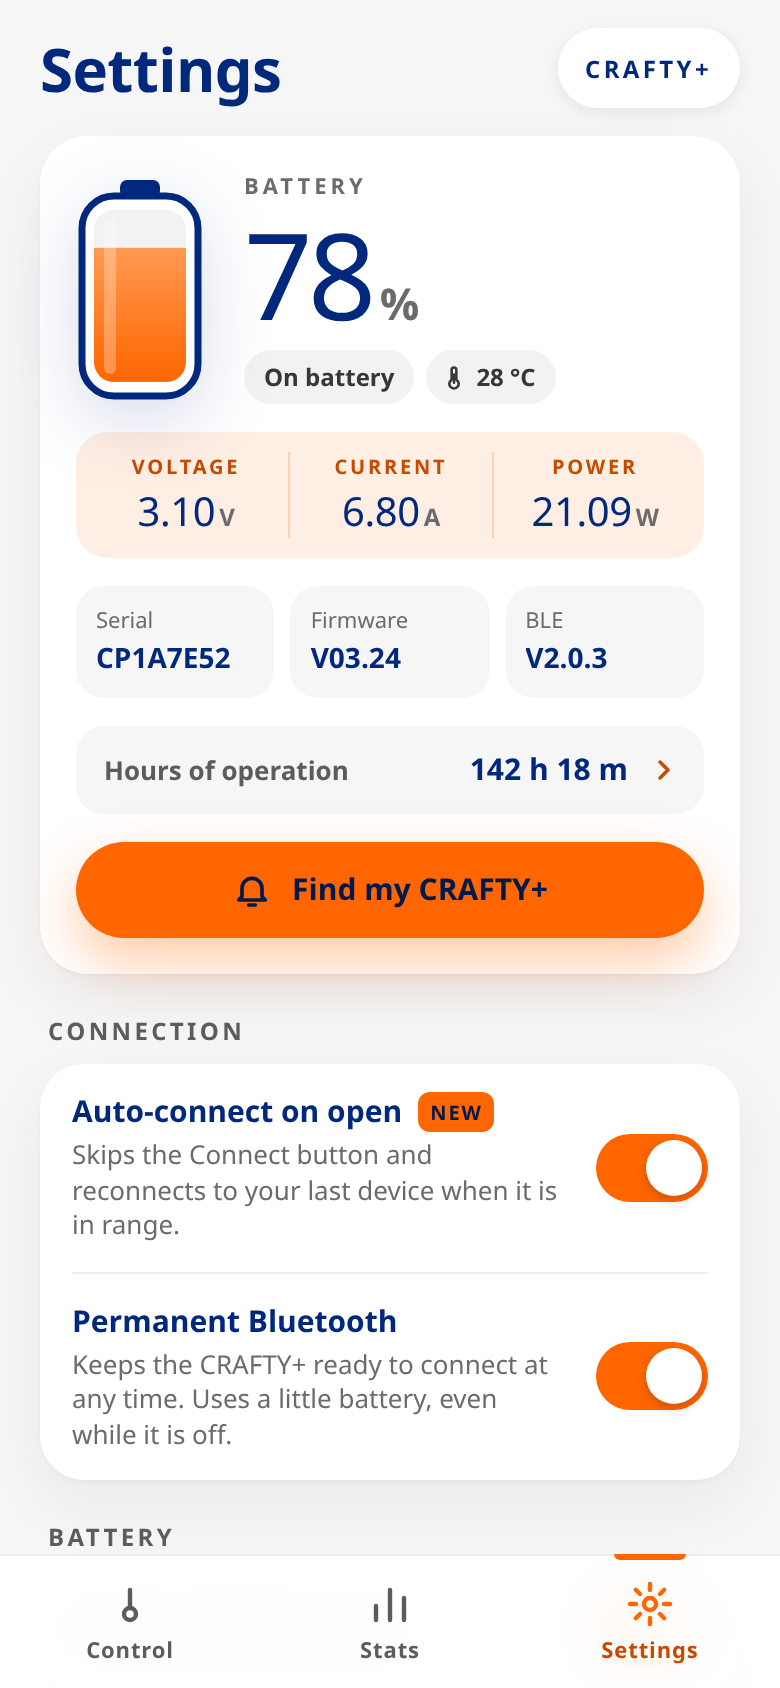
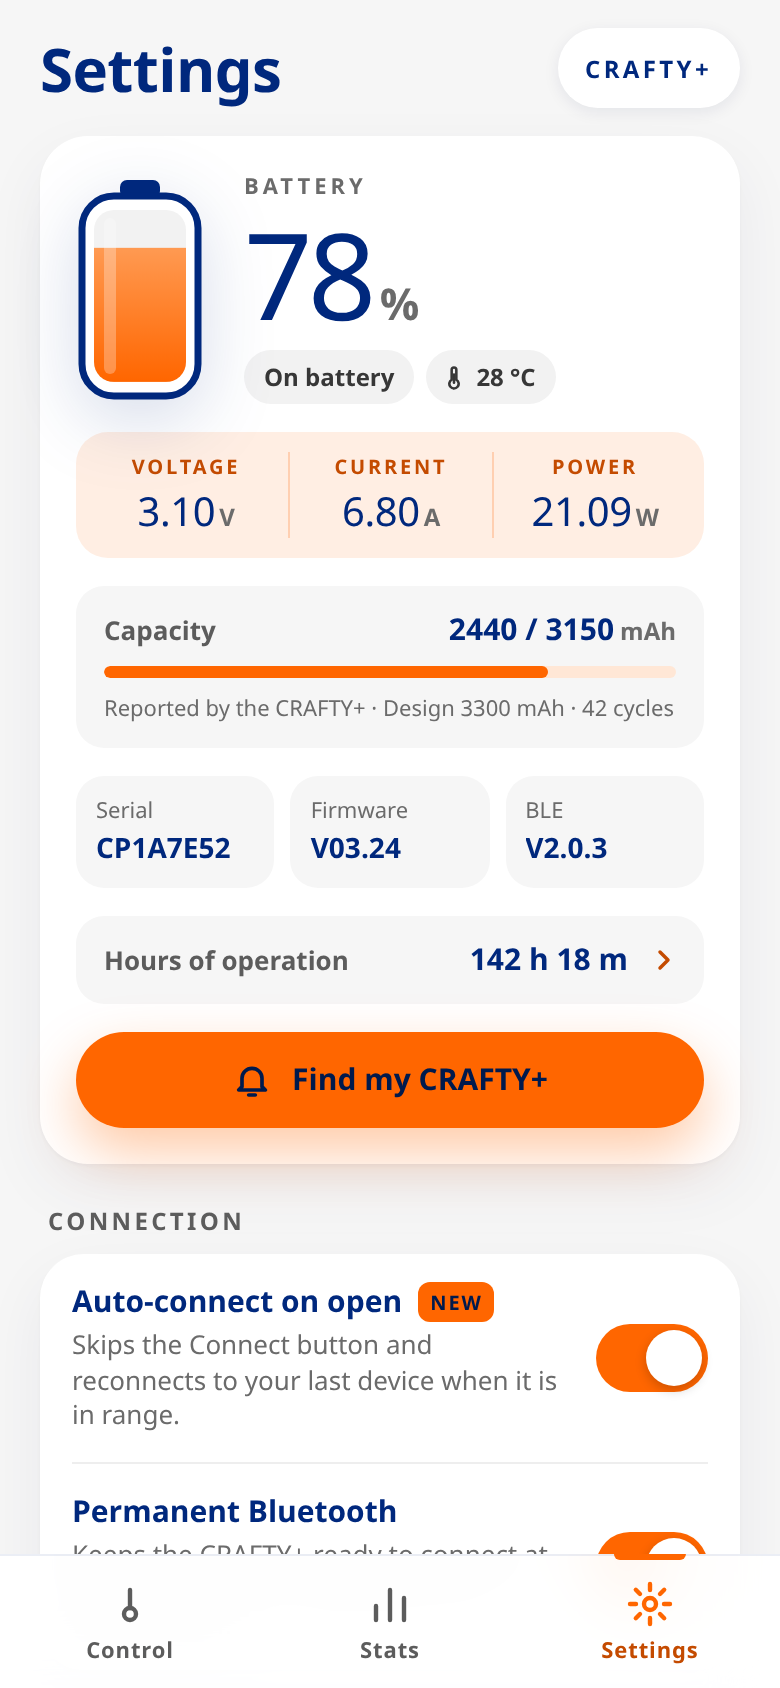
README: Settings screenshot and battery text with the reported capacity

diff --git a/README.md b/README.md
@@ -60,8 +60,9 @@ VENTY · VEAZY · CRAFTY · CRAFTY+ · VOLCANO HYBRID
   so and opens the battery settings.
 - 🔋 **Battery.** Leads Settings: a large percentage, shown while charging too, whether it is on
   battery, charging or charged, with the charge animating up to full. A CRAFTY+ also shows the battery
-  temperature and warns when the battery is too hot to heat; a VENTY or VEAZY shows its lifetime
-  time on the charger.
+  temperature, the capacity it reports (left of full, design capacity, charge cycles: handy to watch
+  the gauge relearn a new cell) and warns when the battery is too hot to heat; a VENTY or VEAZY shows
+  its lifetime time on the charger.
 - 🌋 **VOLCANO workflows.** Flow 1–3 and Balloon run from the phone, step by step, with time
   running and time left.
 - ⚙ **Settings.** Every device setting the official web app offers, plus Find My and the
@@ -90,6 +91,7 @@ built from the protocol and covered by unit tests.
 | Booster / Superbooster offsets | ✓ | ✓ | ✓⁴ | ✓⁴ | ✓⁴ | — |
 | Battery level | ✓ | ✓ | ✅ | ✓ | ✓ | — |
 | Battery voltage, current, power | — | — | ✅ | ✓⁷ | ✓⁷ | — |
+| Battery capacity, charge cycles | — | — | ✓⁷ | ✓⁷ | ✓⁷ | — |
 | Battery on the session chart, energy | ✓⁸ | ✓⁸ | ✓⁷ | ✓⁷ | ✓⁷ | — |
 | Charging / charged | ✓ | ✓ | ✅ | ✓⁵ | — | — |
 | Lifetime charging time | ✓ | ✓ | — | — | — | — |
